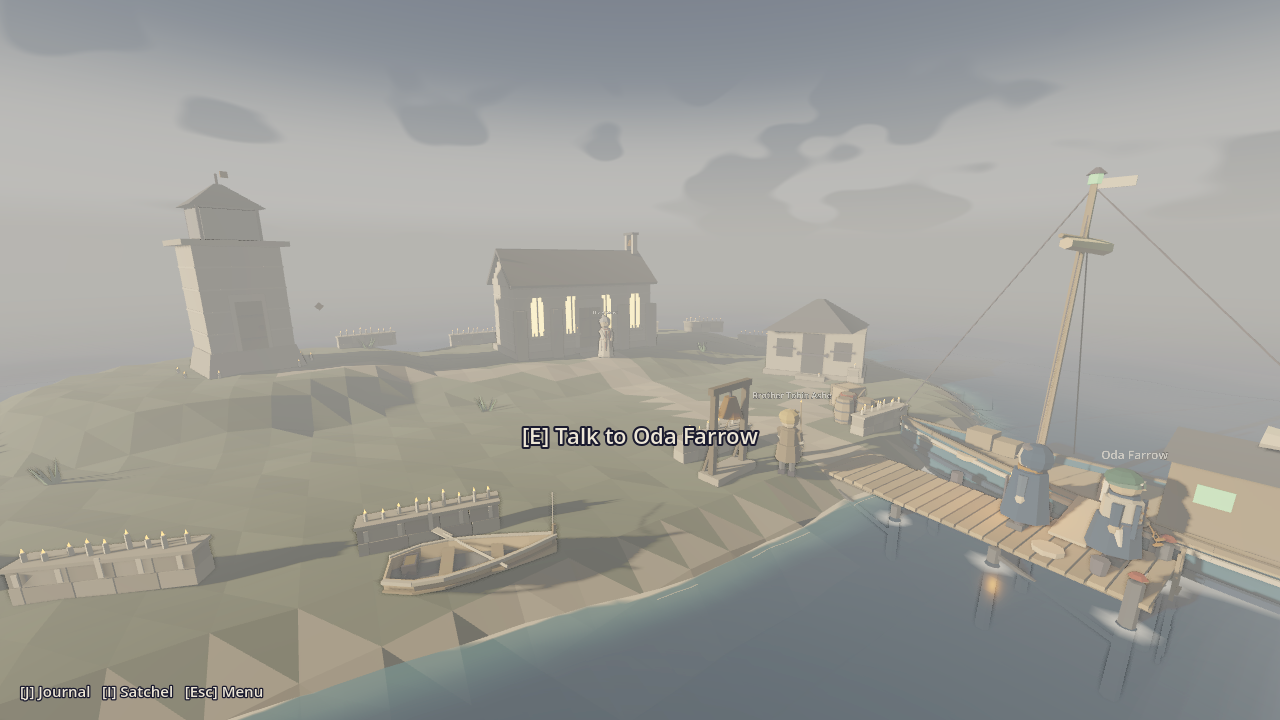
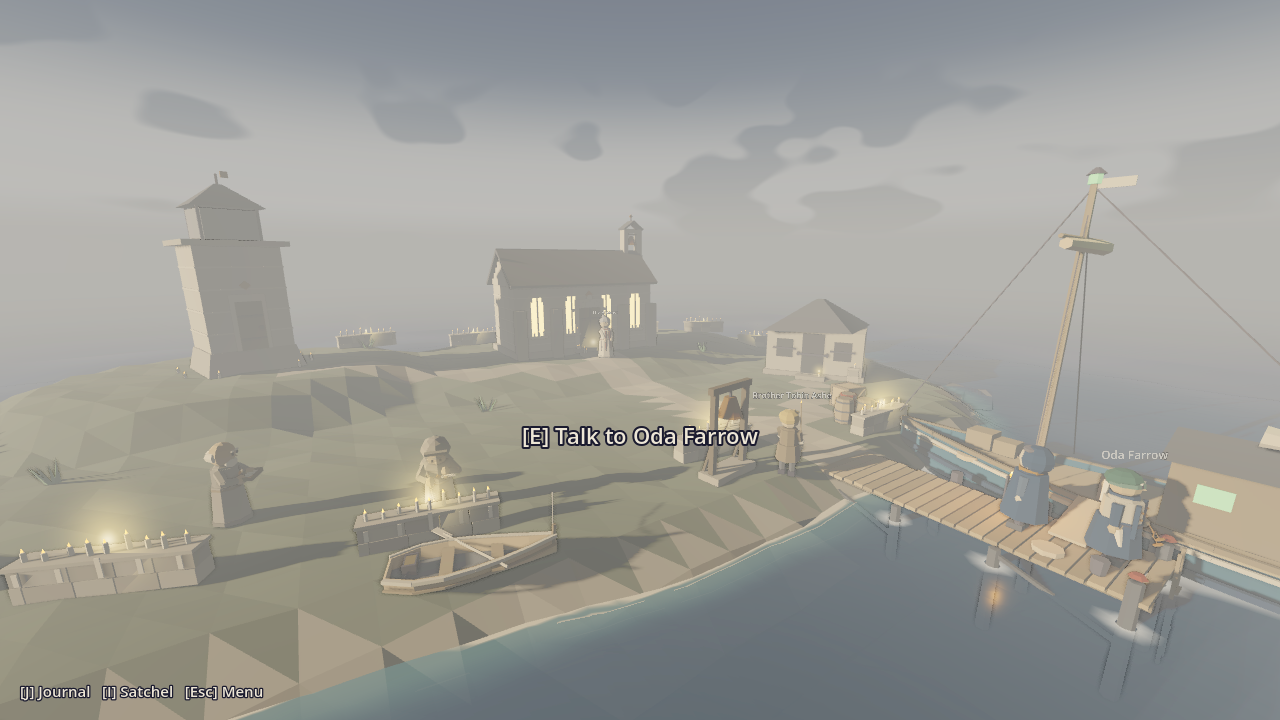
docs: devlog day 63, roadmap (Kindleby art done; content next), lore (someone on the wall), tech notes (_diamond), screenshots, checkpoint
Claude-Session: https://claude.ai/code/session_01W43CMaboitnfy1jMg3FveV

diff --git a/docs/ROADMAP.md b/docs/ROADMAP.md
@@ -494,13 +494,15 @@ each .glb < 5 MB.
       (fed by the root window's `window_input`). `test_polish_eight.gd` (6). Checks under 3 min (tests 69 s, smoke
       65 s) — no split needed.
 
+- [x] [A] **Art pass: Kindleby** (Day 63): the candle ring **glows** from the quay and the sea (a `halo` on every ledge,
+      the Quiet House's step candle and the chapter-house steps — glows, not lights); the chapter-house's **open bell-cote**
+      (piers, arch, pitched cap, the bell on its headstock, the rope down the gable), a hood over the door, candles on both
+      steps; **a sister on the candles** (stooped, taper to a wick) and **an old brother with a tray of tallow** as figures
+      (`keeper_sister`, `keeper_brother`). Fixed: Day 62's stone embers (door, Vigil Light) floated metres off their doors
+      (`_diamond`). `test_kindleby_art.gd` (4). Checkpoint `kindleby` refreshed.
+
 ### Next up
-1. [A] **Art-led session** (due ~Day 63; last Day 58). Kindleby first (Day 62 built it with a first-pass kit): the candle
-   ring's glow at a distance (a soft `halo` per ledge? no OmniLights — the light budget stands), a brother and a sister at
-   the candles with tapers so the island isn't empty, the chapter-house's bell-cote and door detail, the Quiet House's
-   step candle reading at night. Then Wrackholm's empty bracket, the Teeth's broken water, the Saltmarrow dressing
-   follow-ups #7 (Pell's "potato with opinions" gull on the crate?).
-2. [C] **Kindleby, part two** (content due ~Day 65): **the chapter sits** — what lets it (the candles can't be left; the
+1. [C] **Kindleby, part two** (content due ~Day 64-65; last content Day 62): **the chapter sits** — what lets it (the candles can't be left; the
    Wakebearer's ember could hold the ring while they sit?), what it chooses for the Vigil Light and how `kindleby_rite`
    (bowed / refused / '') plays at the top of the stair; then **Kindleby's burning** (switch the port's `lit` to a
    `kindleby_beacon_burned` flag then). Keep shut: the Quiet House (barred, humming — mysteries #1/#3), the order's word
@@ -508,31 +510,34 @@ each .glb < 5 MB.
    stage (`kindleby_told_of_stage`) when the chapter sits. Small follow-ups still open: the `stayed` ending's walk home (by
    oar, waving at the Mercy — Day 60); Pell aboard on Thornwold hearing Dunstan's home; Abe/Tolly or the Lamp on Wenna's
    bend; Aldous told the Provost would send a boat for him (`kindleby_provost_heard_aldous`).
-3. [P] **Color grading pass on a Vulkan machine** — sandbox screenshots (Compatibility
+2. [P] **Color grading pass on a Vulkan machine** — sandbox screenshots (Compatibility
    renderer) are washed out; verify palette reads correctly in Forward+ (incl. beacon glow,
    the Day 12 glow/contrast/saturation grading, SSAO strength, the water colours).
    Needs the owner to run the game locally and report back.
-4. [S] **Settings follow-ups** (deadzone, display/vsync, text speed and pad prompts landed Day 56): gamepad
+3. [S] **Settings follow-ups** (deadzone, display/vsync, text speed and pad prompts landed Day 56): gamepad
    rebinding (a Controls column for pad buttons); pad-specific glyph sets (PlayStation/Switch face names via
    `Input.get_joy_name`); a resolution/scale option for windowed mode. (The "[Esc] back" hints follow the pad since Day 61.)
-5. [S] **The Greying v2** (fold pieces into later sessions): fog pockets/banks on
+4. [S] **The Greying v2** (fold pieces into later sessions): fog pockets/banks on
    Saltmarrow and Shingle Point too (offshore, leaning back after the burn); the ember light
    pushing fog back in a small radius around the player; paths that fade in thick fog
    (LORE: "a road forgets where it goes" — now Thornwold's theme, the Thornwold content); a Hushed NPC
    drifting in a pocket; (the audio cue — muffle + heartbeat — landed Day 46); colourblind-safe meter check
    with the accessibility item. Consider a story flag
    when the player is first turned back (an NPC remarks on it).
-6. [S] **Audio follow-ups** (v1 landed Day 46): **a listening pass by the owner** (levels, the gulls' and
+5. [S] **Audio follow-ups** (v1 landed Day 46): **a listening pass by the owner** (levels, the gulls' and
    voices' timbre, whether the heartbeat is too much — export them with `tools/debug/export_sounds.gd`);
    **music** (the Music bus is still silent: a sparse procedural motif on the title screen and at each lighting
    would do for now); real recordings to replace recipes (`"file"`); sound sources placed in the world (surf at
    the shoreline instead of everywhere at once, the ferry's creak, the Unmoored's breath); paint-zone surfaces (a
    path of stone through grass) and NPC footsteps; dialogue `sound` on more story beats (the bramble wall parting,
    the Book shut, the horn on every sailing).
-7. [A] Saltmarrow dressing follow-ups: paint contrast in the Compatibility renderer (walkway
+6. [A] **Dressing follow-ups** (next art-led session due ~Day 68; last Day 63): Kindleby — the Quiet House's step
+   candle at night once day/night exists, the chapter-house's interior wall, someone at the quay bell's rope when Tobin
+   walks off; Wrackholm's empty bracket; the Teeth's broken water; Pell's "potato with opinions" gull on the crate.
+   Saltmarrow: paint contrast in the Compatibility renderer (walkway
    vs. slate); a lit-window variant for nights once day/night exists; (the brazier's ash raked after a `full` confession: Day 47); the mended lofts could get someone at work on
    them (Tam off the gate?) once Saltmarrow has more people. (Aldous seated and the gate lofts: Day 32.)
-8. [S] Interaction polish: camera framing during dialogue; fade the
+7. [S] Interaction polish: camera framing during dialogue; fade the
    player model when the camera is pushed in close behind them (a wall at their back).
    (Facing while talking landed Day 14; the key hint hides in dialogue since Day 15.)
 

diff --git a/docs/DEVLOG.md b/docs/DEVLOG.md
@@ -2,6 +2,54 @@
 
 Newest entries first. Each entry: what was done, decisions & why, problems, next steps.
 
+## 2026-10-25 09:00 UTC — Day 63: Kindleby's art pass (art)
+
+**Did**
+- Tooling: `tools/setup.sh` worked first try (Godot 4.7.2 + bpy 5.2.2). Detached HEAD with a stale local `main` again;
+  fetched and fast-forwarded `main` to Day 62's `6223752`. Baseline green (442 tests + smoke + launch, 3 min 13 s).
+- **Art (due ~Day 63; last Day 58):** ROADMAP *Next up* #1, Kindleby first.
+  - **The candle ring glows.** Every candle ledge carries a soft `halo` (2.4 m, strength 0.6, a little bloom) over its
+    candles, so the ring reads round the island from the quay, from the crown and from the sea — the island's whole idea
+    ("the ring holds the fog off a cable's width") is now visible at a glance. The Quiet House's step candle and the
+    chapter-house's step candles have a smaller one each. Glows, not lights: the light budget stands.
+  - **The chapter-house** (`build_kindleby.py`): the bell-cote read as a chimney (two piers one behind the other from the
+    front). Now an **open cote** across the east gable — two piers, an arch, a pitched slate cap with the ember on an iron
+    finial, the bell on its headstock in the opening, the rope down the gable. A hood of dressed voussoirs over the door;
+    **candles at both ends of both steps** (LORE already had the steps candle-lined).
+  - **Someone on the wall** (`build_characters.py`, figures — model props with an idle, not NPCs): **a sister on the
+    candles** (`keeper_sister`: grey robe, hood up, stooped from the waist over the south wall by the skiff, her taper's
+    lit tip down to a wick — a static extra so it stays on the wick while she breathes — fresh candles in the crook of
+    her arm) and **an old brother** (`keeper_brother`: bald with a white fringe and beard, carrying a tray of new tallow
+    down the west wall). Shared `_keeper_robe`. LORE: one line ("there is always someone on the wall").
+  - **Fixed: floating embers.** Day 62's stone embers over the chapter-house door and the Vigil Light's door hung in
+    the air — about two metres off to the side (the little diamonds in Day 62's screenshots). The kit's primitives bake
+    their location into the mesh, so setting `rotation_euler` afterwards turned the box about the *model's* origin. New
+    `_diamond()` builds on the origin, turns, then moves. Checked the other kit scripts: the other post-hoc rotations are
+    on cones (not baked) or set location after, so fine.
+- **Tests:** `test_kindleby_art.gd` (4: a halo on every ledge and the two step candles, all built, no lights; the bell-cote
+  over the ridge; the two figures — breathing, unconditional, collidable, inside the clear, clear of the NPCs, the
+  sister's taper tip over the wall top among the candles, the brother by the wall; the Vigil Light's bronze on the door's
+  centre line — fails on Day 62's model). 446 tests + smoke + launch pass. Checkpoint **`kindleby`** re-shot.
+
+Screenshots (`docs/screenshots/2026-10-25-am-*.png`): `the-candle-ring` (from the sea), `the-chapter-house`,
+`a-sister-on-the-candles`; `docs/checkpoints/kindleby.png`.
+
+**Decisions**
+- **Figures, not NPCs.** The roadmap asked for people so the island isn't empty; giving them dialogue would have been
+  content (and more canon to keep shut around the Quiet House). As figures they cost nothing in story and can be made
+  talkable in part two if the chapter sitting wants them (e.g. the ember holding the ring while they go in).
+- **Unconditional.** "There always are" brothers and sisters on the candles is the reason the chapter can't sit; the
+  figures leave when that is written, not before.
+- Wrackholm's empty bracket, the Teeth's water and Pell's whittled gull moved into the dressing follow-ups for the next
+  art session (~Day 68).
+
+**Problems / notes**
+- None blocking. Lineup close-ups show the sister's hood reads a little like a cap from the front; fine at play distance.
+
+**Next run should**
+1. ROADMAP *Next up* #1 — **content** (due ~Day 64-65; last Day 62): **Kindleby part two, the chapter sits**. A
+   polish/debt pass is due by ~Day 69 (last Day 61). Fetch and fast-forward before trusting local `main`.
+
 ## 2026-10-24 21:00 UTC — Day 62: Kindleby, the Keepers' mother-house (content)
 
 **Did**

diff --git a/docs/TECH.md b/docs/TECH.md
@@ -37,7 +37,7 @@ xvfb-run -a $GODOT --rendering-driver opengl3 --path . -- --region=gulls_head --
 $GODOT --headless --path . -s res://tools/debug/terrain_map.gd [-- <region>]  # ASCII walkability map
 $GODOT --headless --path . -s res://tools/debug/export_sounds.gd -- /abs/dir [ids…]  # the procedural sounds as .wav (audio review)
 .tools/bin/blender-py tools/blender/build_props.py          # rebuild .glb props (pine, rocks, beacon, net-loft)
-.tools/bin/blender-py tools/blender/build_characters.py [aldous aldous_seated oda hob hob_seated hob_lantern lamp lamp_named hesper corran corran_nocord unmoored_shawl unmoored_coat dunstan dunstan_seated dunstan_seated_cord dunstan_lantern dunstan_home dunstan_turning wenna wenna_nobrass jory yard_smock yard_smock_mallet yard_shawl yard_lad provost tobin …]  # rebuild characters (assets/models/characters/)
+.tools/bin/blender-py tools/blender/build_characters.py [aldous aldous_seated oda hob hob_seated hob_lantern lamp lamp_named hesper corran corran_nocord unmoored_shawl unmoored_coat dunstan dunstan_seated dunstan_seated_cord dunstan_lantern dunstan_home dunstan_turning wenna wenna_nobrass jory yard_smock yard_smock_mallet yard_shawl yard_lad provost tobin keeper_sister keeper_brother …]  # rebuild characters (assets/models/characters/)
 .tools/bin/blender-py tools/blender/build_dressing.py [dock wreck …]  # rebuild the dressing kit (assets/models/dressing/)
 .tools/bin/blender-py tools/blender/build_village.py [house_stilt house_wren brazier_ash brazier_raked brazier_laid net_loft_broken net_loft_mended plank_bench …]  # village buildings (same kit dir)
 .tools/bin/blender-py tools/blender/build_thornwold.py [bramble bunkhouse tally_house log_bench saw_pit charcoal_clamp pine_dark clamp_rake …]  # Thornwold kit (same kit dir)
@@ -47,7 +47,7 @@ $GODOT --headless --path . -s res://tools/debug/export_sounds.gd -- /abs/dir [id
 .tools/bin/blender-py tools/blender/build_ridge.py [thornwold_beacon (+ _lit) keeper_lodge ridge_steps keeper_ladder waymark_cap sack_dropped ridge_outcrops (+ _low) heather_silver waymark_tumbled]  # the ridge and the way up (same kit dir)
 .tools/bin/blender-py tools/blender/build_old_road.py [northing_cairn cresset_coals cresset_lantern waymark_rake steps_foot boat_stage stage_lantern drift_fire drift_fire_out drift_shelter]  # the old Keepers' road north (Day 53) and the far shore below it (Day 55) (same kit dir)
 .tools/bin/blender-py tools/blender/build_bend.py [clamp_spent clamp_spent_open hut_lantern]  # Coll's Hearth (Day 57): Wenna's clamp burned through (Day 58: and raked open, sacks filled, front on +Z); a Keeper's lantern on a forked stake by a hut door (glass centre Godot [0, 1.28, 0.32] = its `halo`) (same kit dir)
-.tools/bin/blender-py tools/blender/build_kindleby.py [chapter_house candle_ledge vigil_bell quiet_house vigil_light]  # Kindleby (Day 62): the Keepers' chapter-house, the candle wall (a 2.4 m ledge, candles emissive — no lights), the quay bell, the Quiet House (barred), the Vigil Light (same kit dir)
+.tools/bin/blender-py tools/blender/build_kindleby.py [chapter_house candle_ledge vigil_bell quiet_house vigil_light]  # Kindleby (Day 62): the Keepers' chapter-house, the candle wall (a 2.4 m ledge, candles emissive — no lights), the quay bell, the Quiet House (barred), the Vigil Light (Day 63: the chapter-house's open bell-cote, door hood and step candles; `_diamond` turns a box 45° in place — the primitives bake their location, so `obj.rotation_euler` on a placed box swings it round the model origin) (same kit dir)
 xvfb-run -a $GODOT --rendering-driver opengl3 --path . res://scenes/debug/character_lineup.tscn \
     -- --screenshot=/abs/out.png [--closeup] [--mood=gulls_head] [--only=hob,lamp] [--pose=0.16] [--turn=60]  # art review: every character side by side (+ unplaced models); --pose freezes the idles at t s, --turn turns the models
 xvfb-run -a $GODOT --rendering-driver opengl3 --path . res://scenes/debug/prop_lineup.tscn \

diff --git a/docs/LORE.md b/docs/LORE.md
@@ -1075,6 +1075,8 @@ its light is **the Vigil Light**.
   on a low sea wall that rings the island, on the steps and on every sill. Ordinary fire barely helps — "barely isn't
   nothing": the ring holds the fog off **a cable's width**, all round, and has not gone out once in three months. The fog
   stands just past it "like a crowd at a door".
+  There is always someone on the wall (Day 63): a sister with her hood up and her taper to a guttering wick, an old
+  brother — one of those who came over in the boats — bringing a tray of new tallow down the wall to whoever's turn it is.
 - **The quay bell** answers a boat before it blows: one stroke, then three ("a boat seen, and welcome"). Kindleby was
   watching for the Wakebearer.
 - **Brother Tobin Ashe**, bell-porter and candle-warden: a lay brother, Kindleby-born, nineteen, never been to the Spire

diff --git a/docs/CHECKPOINTS.md b/docs/CHECKPOINTS.md
@@ -1,7 +1,7 @@
 # Emberwake — Story checkpoints
 
 Where the game is up to, one screenshot per story checkpoint. Generated by
-`tools/checkpoints.sh` from `data/scenarios.json` (at commit `5eab605`, 2026-10-24 21:33 UTC).
+`tools/checkpoints.sh` from `data/scenarios.json` (at commit `6223752`, 2026-10-25 09:31 UTC).
 
 Play from any of them: `godot --path . -- --scenario=<id>`, or in a debug build open the
 pause menu (Esc) → **Chapter select (dev)**. `--scenario=list` prints them all.
